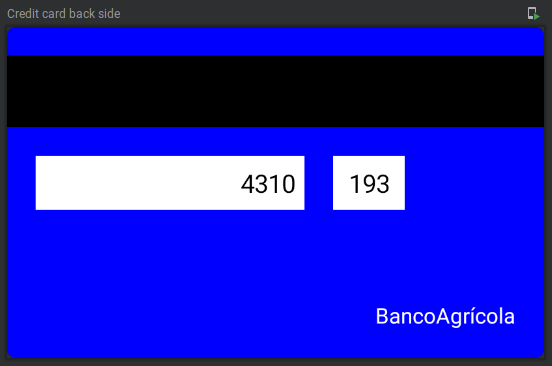
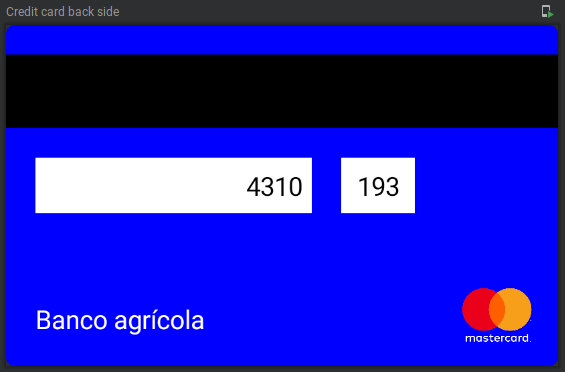
:memo: Include new parameters on readme

diff --git a/README.md b/README.md
@@ -3,16 +3,14 @@ A simple composable component that displays credit/debit card information.
 
 ## Usage
 ```kotlin
-@Preview(name = "Credit card front side")
-@Preview
-fun CreditCardFrontPreview() {
-    val creditCard = CreditCardModel(
-        number = "00AA11BB22CC4310",
-        holderName = "carlos menjivar",
-        expiration = "08/22"
-    )
+@Composable
+private fun CreditCardPreview() {
     CreditCard(
-        model = creditCard
+        bankName = "Banco agrícola",
+        number = "00AA11BB22CC4310",
+        expiration = "08/22",
+        holderName = "carlos menjivar",
+        cvc = "193"
     )
 }
 ```
@@ -23,13 +21,11 @@ fun CreditCardFrontPreview() {
 @Preview(name = "Credit card back side")
 @Composable
 fun CreditCardBackPreview() {
-    val creditCard = CreditCardModel(
-        number = "00AA11BB22CC4310",
-        cvc = "193",
-        bankName = "BancoAgrícola"
-    )
     CreditCard(
-        model = creditCard,
+        number = "00AA11BB22CC4310",
+        holderName = "carlos menjivar",
+        expiration = "08/02",
+        bankName = "Bank name",
         flipped = true
     )
 }
@@ -37,8 +33,9 @@ fun CreditCardBackPreview() {
 ![credit card front empty](./images/credit_card_back_side.png)
 
 ## Next steps
-- [ ] Create an standar design for the card
-- [ ] Include back view
+- [x] Create an standar design for the card
+- [x] Include back view
+- [ ] Identify card entity
 - [ ] Add inputs to fill the view
 - [ ] Include testing
 - [ ] Upload project to centralMaven
